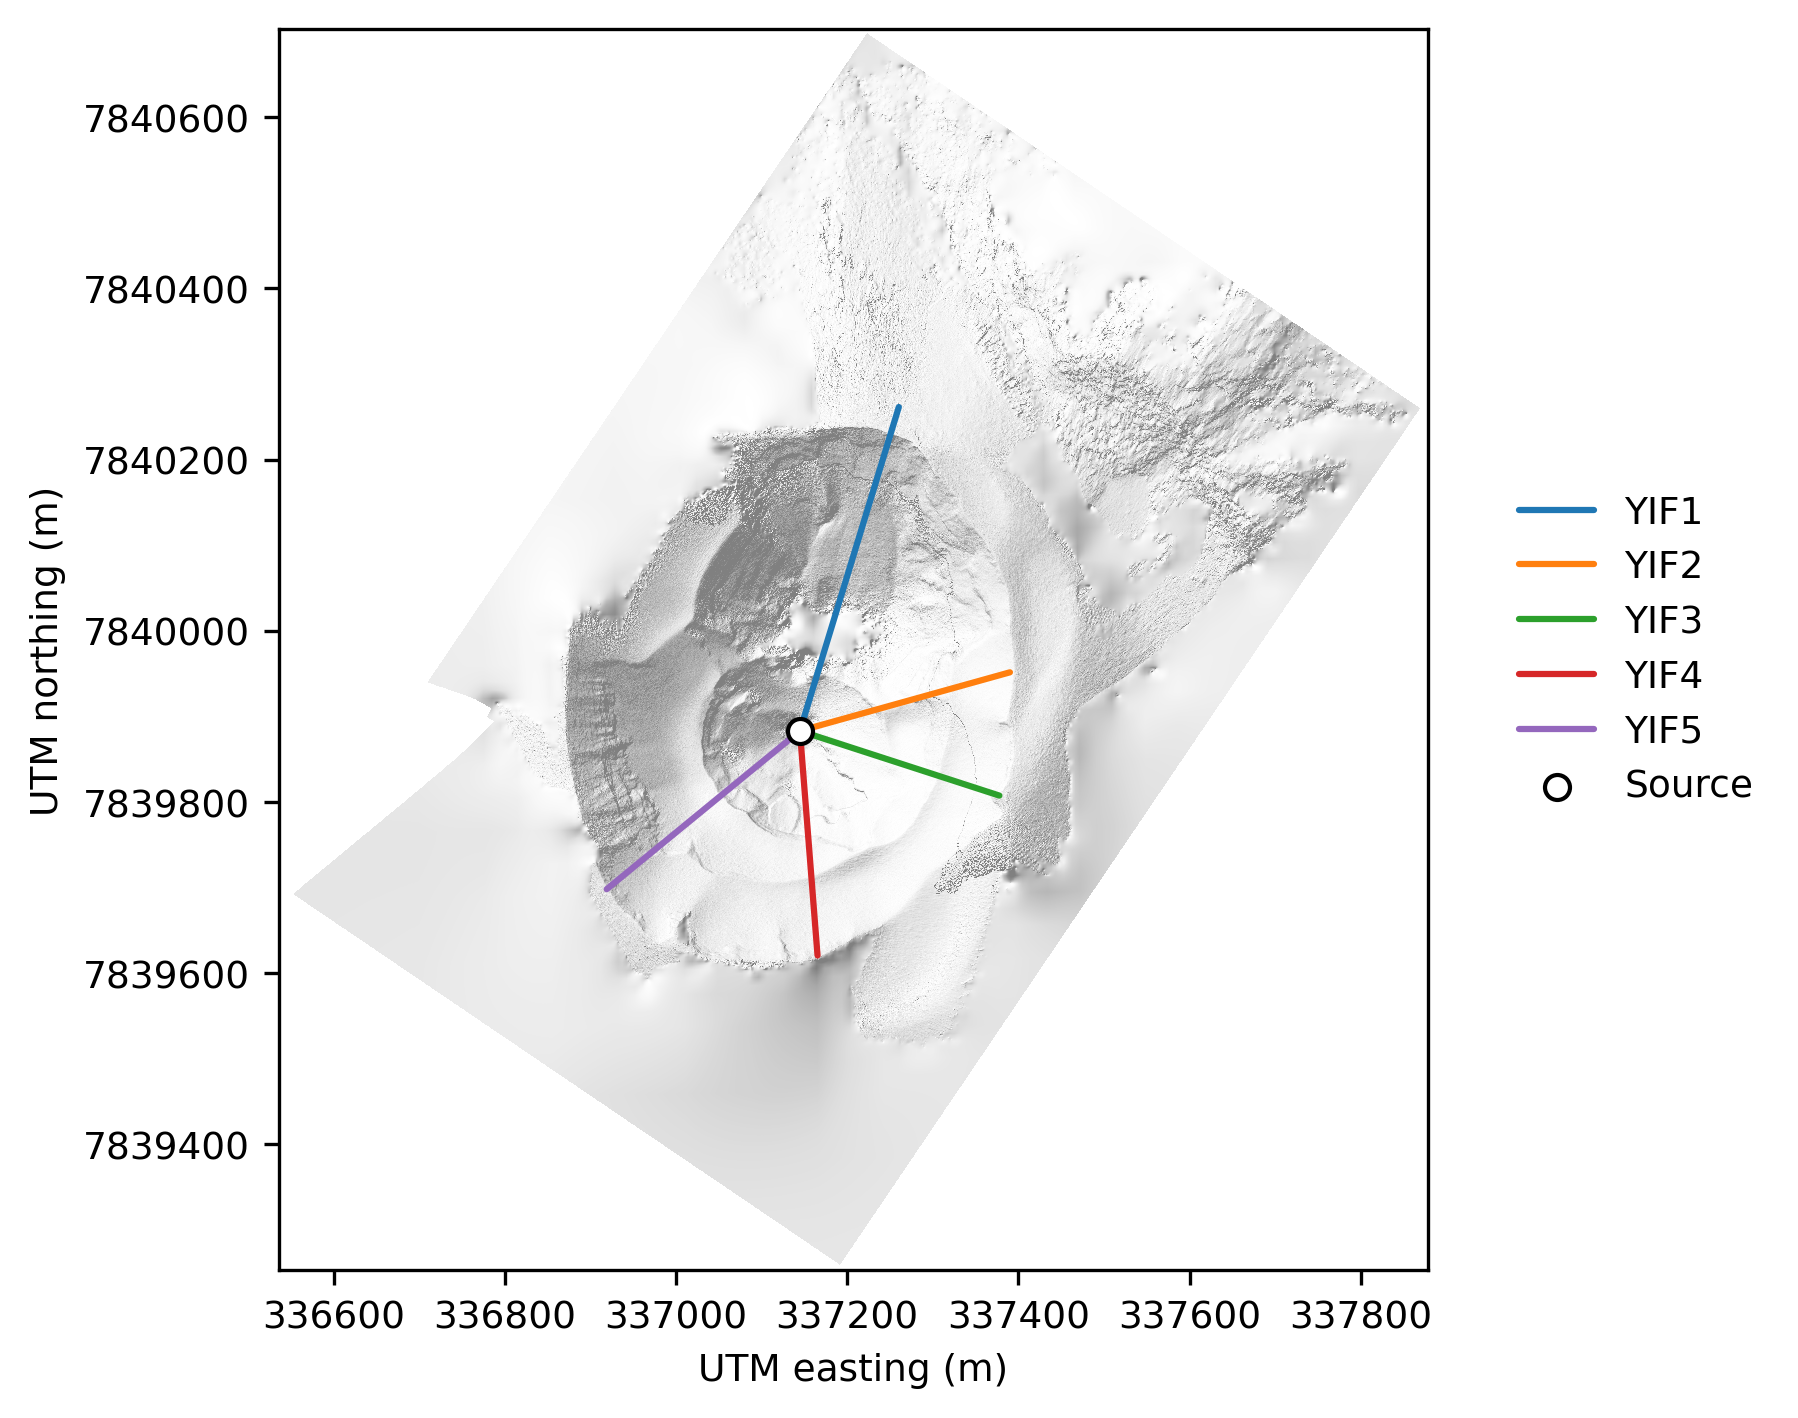
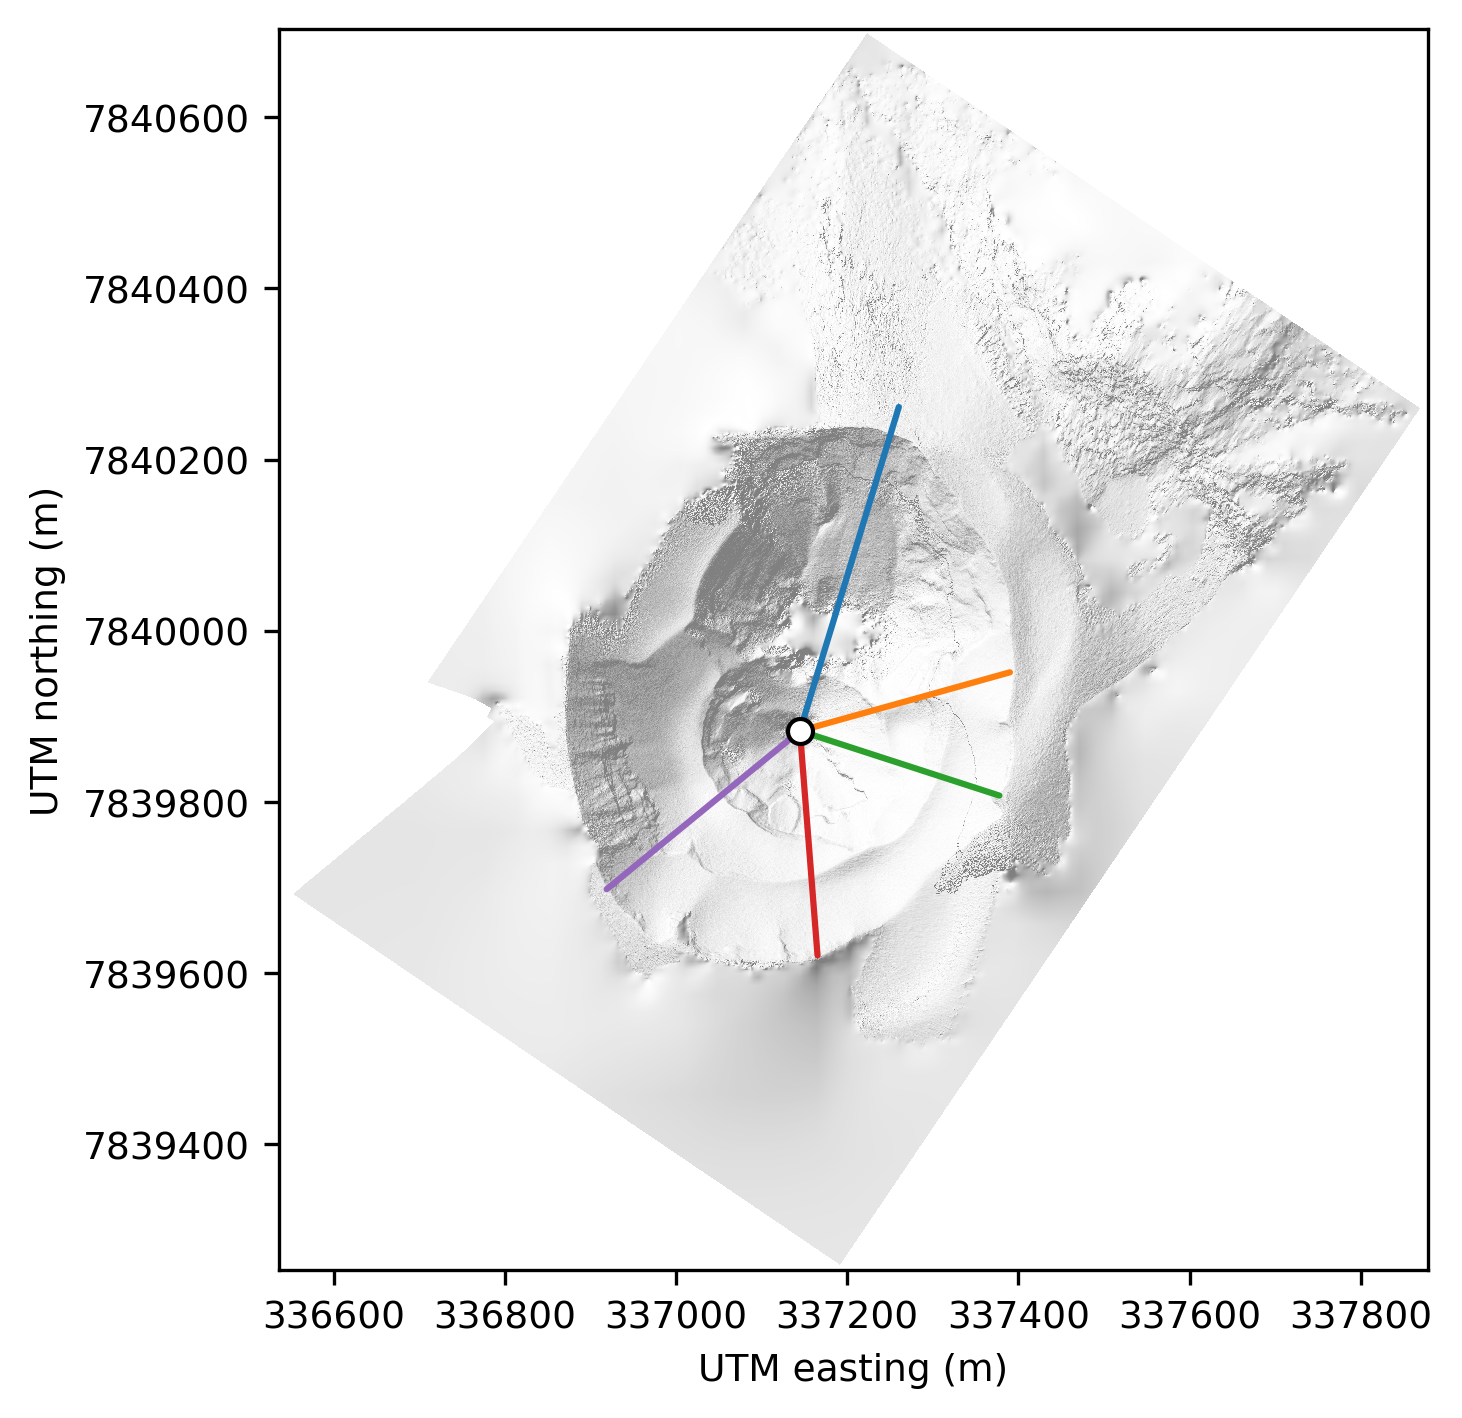
Swap legend

diff --git a/example_yasur.py b/example_yasur.py
@@ -66,7 +66,7 @@ ax.ticklabel_format(style='plain')
 ax.set_aspect('equal')
 ax.set_xlabel('UTM easting (m)')
 ax.set_ylabel('UTM northing (m)')
-ax.legend(loc='center left', frameon=False, bbox_to_anchor=(1.05, 0.5))
+# ax.legend(loc='center left', frameon=False, bbox_to_anchor=(1.05, 0.5))
 fig.tight_layout()
 fig.show()
 if SAVE_EXAMPLE_FIGURES:
@@ -84,7 +84,7 @@ for ax, var_name in zip(axes, ds.data_vars):
     ax.set_aspect('equal')
 axes[-1].set_xlabel('Horizontal distance (m)')
 axes[1].set_ylabel('Elevation (m)')
-# axes[1].legend(loc='center left', frameon=False, bbox_to_anchor=(1.05, 0.5))
+axes[1].legend(loc='center left', frameon=False, bbox_to_anchor=(1.05, 0.5))
 fig.tight_layout()
 fig.show()
 if SAVE_EXAMPLE_FIGURES:
